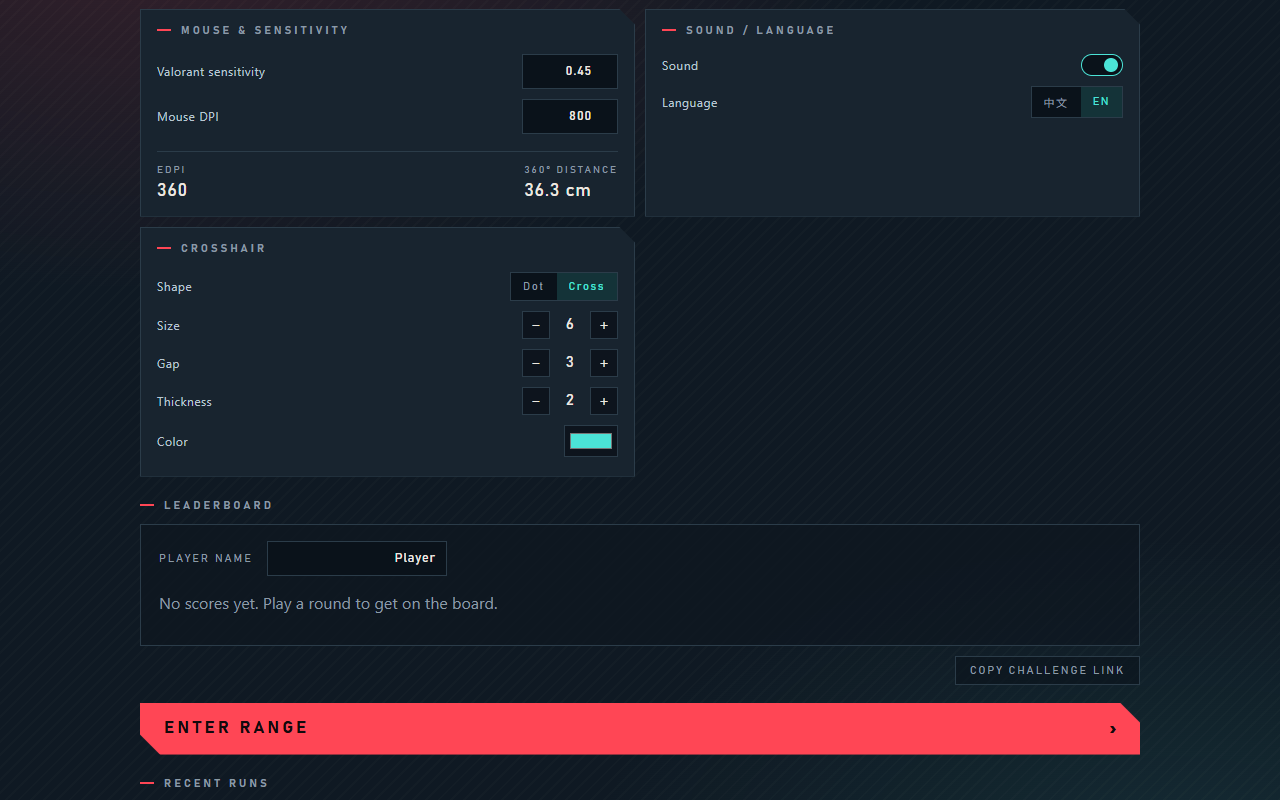
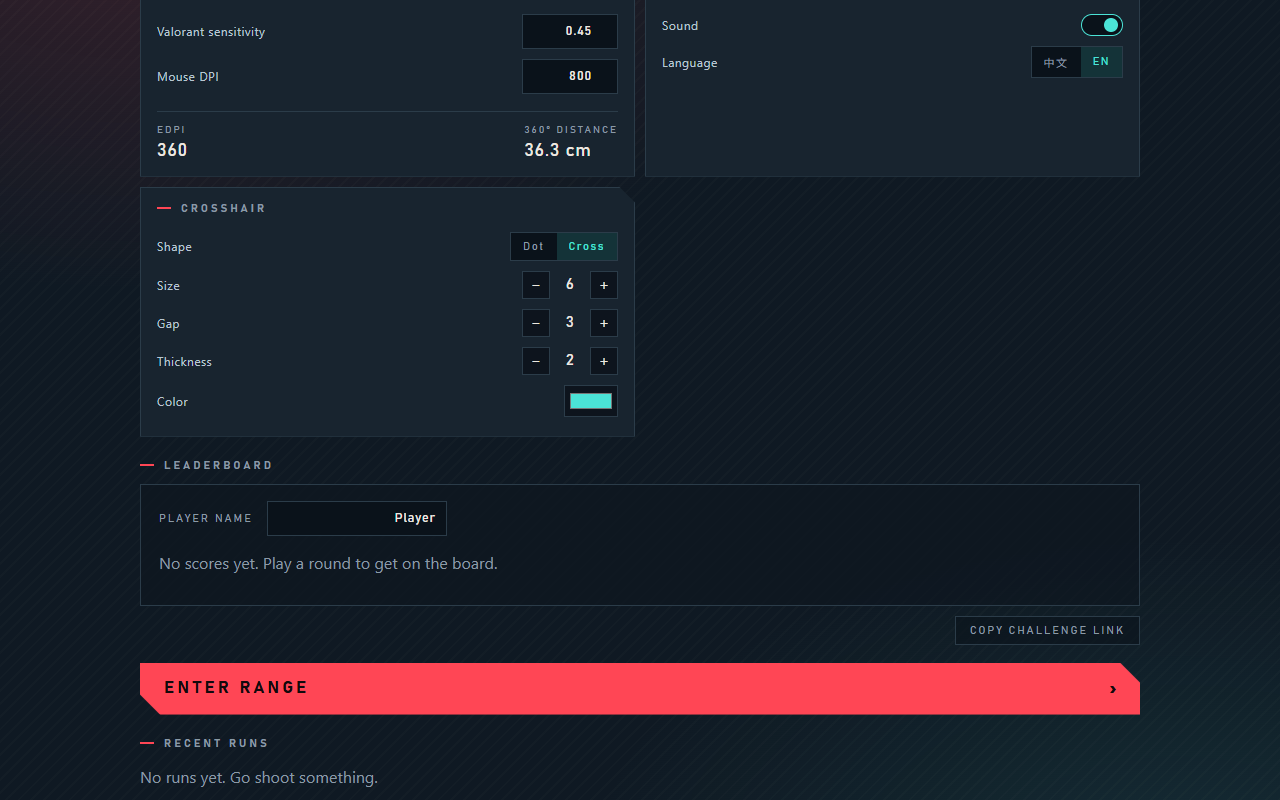
feat: vertical aim error stats on the results screen

diff --git a/src/engine/range.ts b/src/engine/range.ts
@@ -7,6 +7,7 @@ import {
   BALCONY_SLOTS,
   BALCONY_Y,
   COUNTDOWN_MS,
+  AIM_CONE_RAD,
   FOV,
   GRAVITY,
   GROUND_SLOTS,
@@ -33,7 +34,7 @@ import {
   type Slot,
   type WeaponConfig,
 } from '../game/config'
-import { clamp, dirFromYawPitch } from '../game/math'
+import { clamp, dirFromYawPitch, type Vec3 } from '../game/math'
 import { dailySeed, mulberry32, newSeed } from '../game/rng'
 import { RoundScorer } from '../game/scoring'
 import { radPerCount } from '../game/sensitivity'
@@ -189,6 +190,7 @@ export class RangeEngine {
         status: this.status,
         counts: { ground: this.opts.settings.groundCount, balcony: this.opts.settings.balconyCount },
         jumpY: this.jumpY,
+        aimCount: this.scorer.aimCount,
         posX: Number(this.camera.position.x.toFixed(2)),
         posZ: Number(this.camera.position.z.toFixed(2)),
         dummies: this.dummies.map((d) => ({
@@ -545,6 +547,8 @@ export class RangeEngine {
     const aimYaw = this.input.yaw + (this.recoilYaw * Math.PI) / 180
     const spreadRad = (spreadDegrees(this.spreadSpeed) * Math.PI) / 180
     const dir = applySpread(dirFromYawPitch(aimYaw, aimPitch), aimYaw, spreadRad)
+    const aimError = this.measureAim(eye, dir)
+    if (aimError !== null) this.scorer.recordAim(aimError)
 
     // The bullet has left the barrel; now the view kicks.
     const kick = recoilKick(this.shotIndex, this.rng())
@@ -617,6 +621,35 @@ export class RangeEngine {
    * on each side. Both have to be cleared with headshots; the pair is shifted
    * if the spawn point does not have room on both sides.
    */
+
+  /**
+   * Signed vertical angle between the shot and the head of the closest target
+   * (positive = the head was above the crosshair, i.e. the shot went low).
+   */
+  private measureAim(eye: Vec3, dir: Vec3): number | null {
+    const aimPitch = Math.asin(Math.max(-1, Math.min(1, dir.y)))
+    let best: { angle: number; error: number } | null = null
+    for (const dummy of this.dummies) {
+      const head = dummy.headCenter()
+      const dx = head.x - eye.x
+      const dy = head.y - eye.y
+      const dz = head.z - eye.z
+      const len = Math.hypot(dx, dy, dz)
+      if (len < 0.5) continue
+      const nx = dx / len
+      const ny = dy / len
+      const nz = dz / len
+      const cos = Math.min(1, Math.max(-1, nx * dir.x + ny * dir.y + nz * dir.z))
+      const angle = Math.acos(cos)
+      if (angle > AIM_CONE_RAD) continue
+      if (!best || angle < best.angle) {
+        const targetPitch = Math.asin(Math.max(-1, Math.min(1, ny)))
+        best = { angle, error: ((targetPitch - aimPitch) * 180) / Math.PI }
+      }
+    }
+    return best ? best.error : null
+  }
+
   private splitTarget(source: Dummy): void {
     const floor = source.slot.floor
     const z = source.root.position.z

diff --git a/src/game/scoring.ts b/src/game/scoring.ts
@@ -26,6 +26,9 @@ export class RoundScorer {
 
   private ttkSum = 0
   private ttkCount = 0
+  private aimSamples = 0
+  private aimAbsSum = 0
+  private aimLow = 0
 
   constructor(tier: Tier) {
     this.tier = tier
@@ -36,6 +39,11 @@ export class RoundScorer {
     if (!event.isFirstShotOnTarget) return
     this.engagements += 1
     if (event.outcome === 'head') this.firstShotHeads += 1
+  }
+
+  /** how many shots had a target close enough to measure */
+  get aimCount(): number {
+    return this.aimSamples
   }
 
   onHead(event: ShotEvent): number {
@@ -80,6 +88,16 @@ export class RoundScorer {
     this.shots += 1
   }
 
+  /**
+   * `errorDeg` is signed: positive means the shot passed below the head centre.
+   * Sampled on every shot that was aimed at a target at all.
+   */
+  recordAim(errorDeg: number): void {
+    this.aimSamples += 1
+    this.aimAbsSum += Math.abs(errorDeg)
+    if (errorDeg > 0) this.aimLow += 1
+  }
+
   finish(meta: { weapon: WeaponId; durationMs: number }): RoundResult {
     const duration = Math.max(1, meta.durationMs)
     return {
@@ -96,6 +114,8 @@ export class RoundScorer {
         this.shots > 0 ? (this.headshots + this.bodyHits + this.penaltyKills) / this.shots : 0,
       firstShotHsRate: this.engagements > 0 ? this.firstShotHeads / this.engagements : 0,
       avgTtkMs: this.ttkCount > 0 ? this.ttkSum / this.ttkCount : 0,
+      avgAimErrorDeg: this.aimSamples > 0 ? this.aimAbsSum / this.aimSamples : 0,
+      lowAimShare: this.aimSamples > 0 ? this.aimLow / this.aimSamples : 0,
       killsPerMin: (this.headshots / duration) * 60_000,
       durationMs: duration,
       endReason: 'time',

diff --git a/src/__tests__/aim.test.ts b/src/__tests__/aim.test.ts
@@ -1,0 +1,28 @@
+import { describe, expect, it } from 'vitest'
+import { RoundScorer } from '../game/scoring'
+
+describe('aim error stats', () => {
+  it('averages the absolute vertical error', () => {
+    const scorer = new RoundScorer(1)
+    scorer.recordAim(0.4)
+    scorer.recordAim(-0.2)
+    const result = scorer.finish({ weapon: 'vandal', durationMs: 60_000 })
+    expect(result.avgAimErrorDeg).toBeCloseTo(0.3, 5)
+  })
+
+  it('counts shots that passed below the head', () => {
+    const scorer = new RoundScorer(1)
+    scorer.recordAim(0.4)
+    scorer.recordAim(0.1)
+    scorer.recordAim(-0.3)
+    scorer.recordAim(-0.05)
+    const result = scorer.finish({ weapon: 'vandal', durationMs: 60_000 })
+    expect(result.lowAimShare).toBeCloseTo(0.5, 5)
+  })
+
+  it('reports zero when nothing was measured', () => {
+    const result = new RoundScorer(1).finish({ weapon: 'vandal', durationMs: 60_000 })
+    expect(result.avgAimErrorDeg).toBe(0)
+    expect(result.lowAimShare).toBe(0)
+  })
+})

diff --git a/src/ui/Results.tsx b/src/ui/Results.tsx
@@ -36,6 +36,15 @@ export default function Results({ result, rank, name, lang, onReplay, onMenu }: 
           <Stat label={t('firstShot')} value={pct(result.firstShotHsRate)} />
           <Stat label={t('avgTtk')} value={result.headshots > 0 ? secs(result.avgTtkMs) : '—'} />
           <Stat label={t('accuracy')} value={result.shots > 0 ? pct(result.accuracy) : '—'} />
+          <Stat
+            label={t('aimError')}
+            value={result.avgAimErrorDeg > 0 ? `${result.avgAimErrorDeg.toFixed(2)}°` : '—'}
+          />
+          <Stat
+            label={t('lowAim')}
+            value={result.avgAimErrorDeg > 0 ? pct(result.lowAimShare) : '—'}
+            tone={result.lowAimShare > 0.6 ? 'bad' : undefined}
+          />
         </div>
 
         <div className="results-actions">

diff --git a/src/i18n/index.ts b/src/i18n/index.ts
@@ -56,6 +56,8 @@ const zh = {
   firstShot: '首枪爆头率',
   avgTtk: '平均击杀时间',
   accuracy: '命中率',
+  aimError: '高度误差',
+  lowAim: '偏低占比',
   timeOut: 'TIME OUT',
   endTime: '时间到',
   endBody: '断靶次数用尽',
@@ -133,6 +135,8 @@ const en: Record<I18nKey, string> = {
   firstShot: 'First-shot HS%',
   avgTtk: 'Avg TTK',
   accuracy: 'Accuracy',
+  aimError: 'Aim height error',
+  lowAim: 'Below head',
   timeOut: 'TIME OUT',
   endTime: 'Time up',
   endBody: 'Out of body hits',

diff --git a/src/game/types.ts b/src/game/types.ts
@@ -24,6 +24,10 @@ export interface RoundResult {
   accuracy: number
   firstShotHsRate: number
   avgTtkMs: number
+  /** mean |vertical aim error| against the target head, degrees */
+  avgAimErrorDeg: number
+  /** share of shots that passed below the head centre */
+  lowAimShare: number
   killsPerMin: number
   durationMs: number
   /** kept for compatibility; rounds always end on the timer now */

diff --git a/src/game/config.ts b/src/game/config.ts
@@ -10,6 +10,8 @@ export const PLAYER_MAX_X = 11
 export const PLAYER_MIN_Z = -11
 export const PLAYER_MAX_Z = 14
 export const FOV = 103
+/** Shots within this angle of a head count as "aimed at it" for the aim-error stat. */
+export const AIM_CONE_RAD = (8 * Math.PI) / 180
 /** Jump: ~0.75 m high, ~0.6 s in the air, close to Valorant's hop. */
 export const JUMP_SPEED = 5.2
 export const GRAVITY = 18

diff --git a/src/__tests__/leaderboard.test.ts b/src/__tests__/leaderboard.test.ts
@@ -25,6 +25,8 @@ const result = (score: number, at = Date.now()): RoundResult => ({
   accuracy: 1,
   firstShotHsRate: 1,
   avgTtkMs: 100,
+  avgAimErrorDeg: 0.2,
+  lowAimShare: 0.5,
   killsPerMin: 1,
   durationMs: 60_000,
   endReason: 'time',

diff --git a/PLAN.md b/PLAN.md
@@ -178,6 +178,13 @@
 - **PWA**:manifest + service worker,首屏离线可用,可安装到桌面。
 - **在线排行榜**:`src/net/board.ts` 走 `VITE_BOARD_URL`;服务端模板在 `server/worker.js`(Cloudflare Worker + KV),带分数一致性校验。未配置时功能整体隐藏。
 
+### 高度误差统计
+
+- 每次开枪,在 8° 锥内找最近的靶子头心,算射线与"眼睛→头心"方向的**俯仰差**。
+- 正值 = 头在准星上方 = 打低了;负值 = 打高了。
+- 只统计真的瞄着靶子的枪,空放不算。
+- 结算展示:平均高度误差(绝对值)、偏低占比(> 60% 标红)。
+
 ## 8. 界面
 
 - 深海军蓝 + 红色主调,窄体大写标题,切角面板,红色侧条。

diff --git a/README.md b/README.md
@@ -56,6 +56,7 @@ npm run dev
 - **准星自定义**:点/十字、长度、间隙、粗细、颜色
 - **挑战链接**:菜单里一键复制,把靶数/移动/武器/灵敏度编码进网址
 - **每日挑战**:开启后所有人当天用同一个随机种子,靶子分布一致
+- **高度误差**:结算显示平均高度误差和"偏低占比",直接指出你是不是习惯性打低
 - **成绩图**:结算页可导出 PNG
 - **可安装**:支持 PWA,装到桌面后断网也能练
 - **在线榜**(可选):配置 `VITE_BOARD_URL` 后启用,见 `server/README.md`
